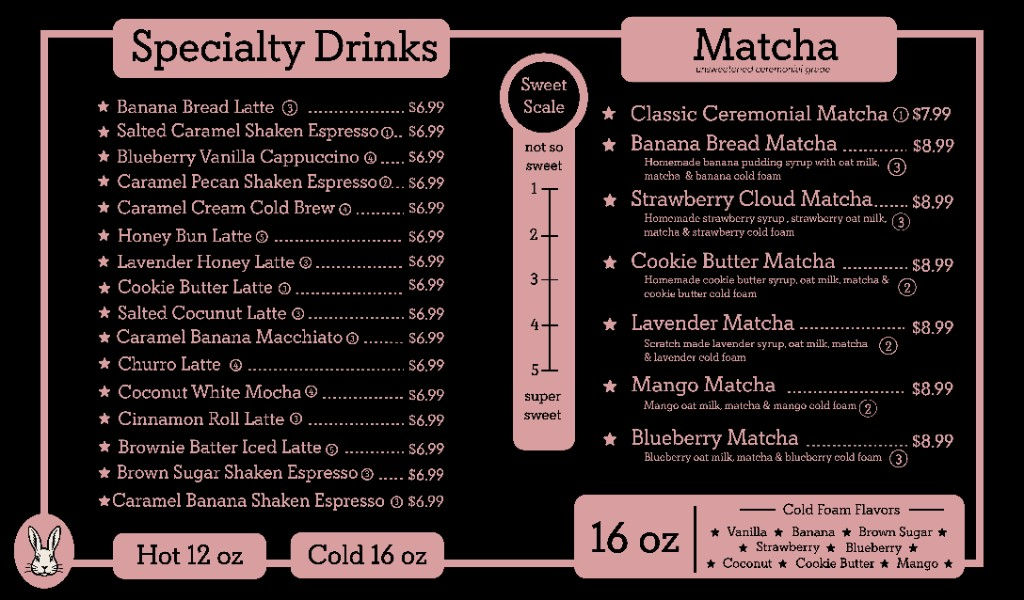
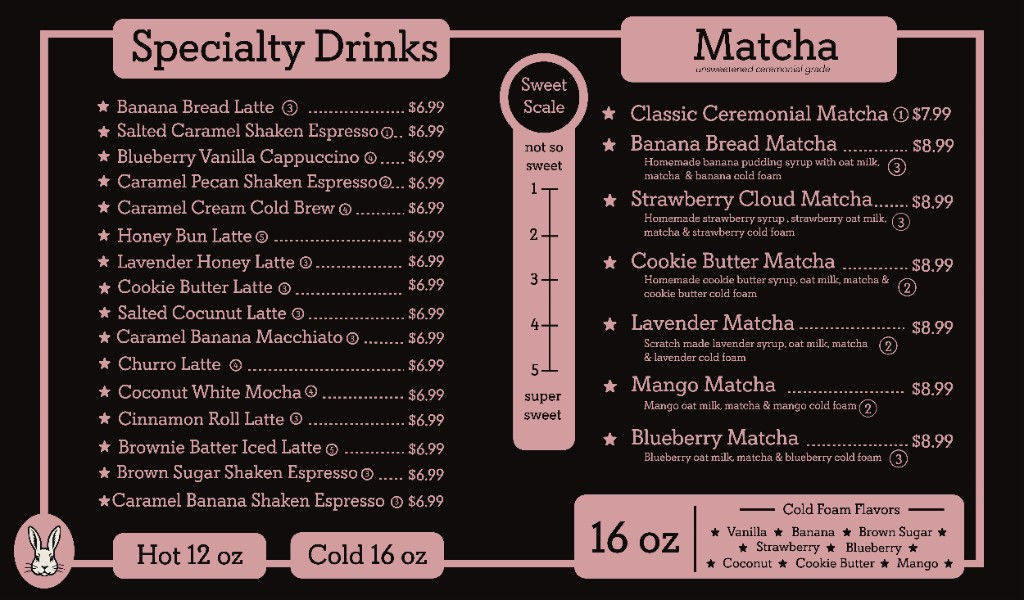
Update final menu boards and homepage contact copy
Replace the menu board assets with the final images, simplify the menu page hero, remove Call Us navigation buttons, and update landing-page promo/contact text.

Made-with: Cursor

diff --git a/index.html b/index.html
@@ -54,7 +54,6 @@
             rel="noopener noreferrer"
             >Order Online</a
           >
-          <a class="btn btn-secondary btn-nav" href="tel:+14694325090">Call Us</a>
         </nav>
       </div>
     </header>
@@ -174,7 +173,6 @@
       <section class="section promo-spotlight" id="spotlight" aria-labelledby="spotlight-heading">
         <div class="container">
           <div class="section-head">
-            <p class="eyebrow">On the bar</p>
             <h2 id="spotlight-heading">Featured right now</h2>
           </div>
           <div class="promo-spotlight-grid">
@@ -204,7 +202,7 @@
                 />
               </div>
               <figcaption class="promo-spotlight-caption">
-                <h3>Hilltop Half &amp; Half</h3>
+                <h3>Hilltop Half &amp; Half, 32 oz, 16 oz / side</h3>
                 <p class="promo-spotlight-sub">Featuring the banana bread latte and banana bread matcha</p>
                 <p class="promo-spotlight-announce">Two drinks, one cup—split down the middle so you don't have to choose. Ask for it on your next visit.</p>
               </figcaption>
@@ -327,7 +325,7 @@
             <ul class="details-list">
               <li><strong>Address:</strong> 8356 Thompson Road, Northlake, TX 76247</li>
               <li><strong>Daily:</strong> 5:30 AM – 5:30 PM</li>
-              <li><strong>Phone:</strong> <a href="tel:+14694325090">469-432-5090</a></li>
+              <li><strong>Phone:</strong> <a href="tel:+14694325090">469-432-5090</a> (Text Only)</li>
             </ul>
           </div>
           <div class="visit-note">

diff --git a/menu.html b/menu.html
@@ -55,7 +55,6 @@
             rel="noopener noreferrer"
             >Order Online</a
           >
-          <a class="btn btn-secondary btn-nav" href="tel:+14694325090">Call Us</a>
         </nav>
       </div>
     </header>
@@ -71,9 +70,6 @@
               <a class="btn btn-secondary" href="menu-board-matcha.html" target="_blank" rel="noopener">Matcha + Specialty Board</a>
               <a class="btn btn-secondary" href="menu-board-specialty.html" target="_blank" rel="noopener">Pastry Case Board</a>
             </div>
-          </div>
-          <div class="menu-hero-board">
-            <img src="assets/menu/menu2.png" alt="Preview of the coffee, brilliance boost, and refresher menu board" loading="lazy" />
           </div>
         </div>
       </section>
